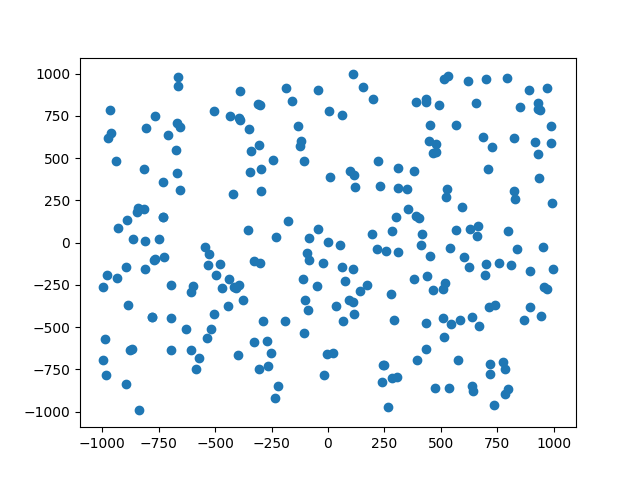
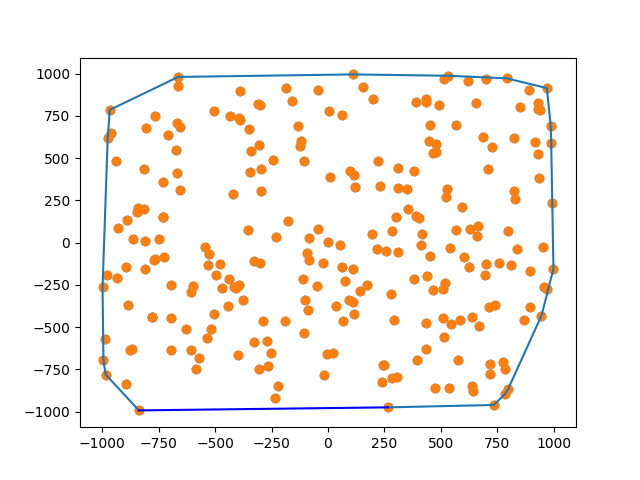
updating ui

diff --git a/dialog.py b/dialog.py
@@ -1,3 +1,5 @@
+from PyQt5.QtGui import QPixmap
+
 import convexhull
 import sys
 
@@ -22,15 +24,14 @@ class UI(QMainWindow):
         # show app
         self.show()
 
-    def fileclicker(self) -> str:
+    def fileclicker(self):
         fname = QFileDialog.getOpenFileName(self, "Open CSV File", "~", "CSV Files(*.csv);;TXT Files(*.txt)")
         coordinates = convexhull.load_data(fname[0])
         if fname:
             self.coords.setText(str(coordinates))
         convexhull.graham_scan(coordinates)
-        self.display.setPixmap("/hull.png")
-        return fname[0]
-
+        pixmap = QPixmap("hull.png")
+        self.display.setPixmap(pixmap)
 
 app = QApplication(sys.argv)
 UIWindow = UI()
